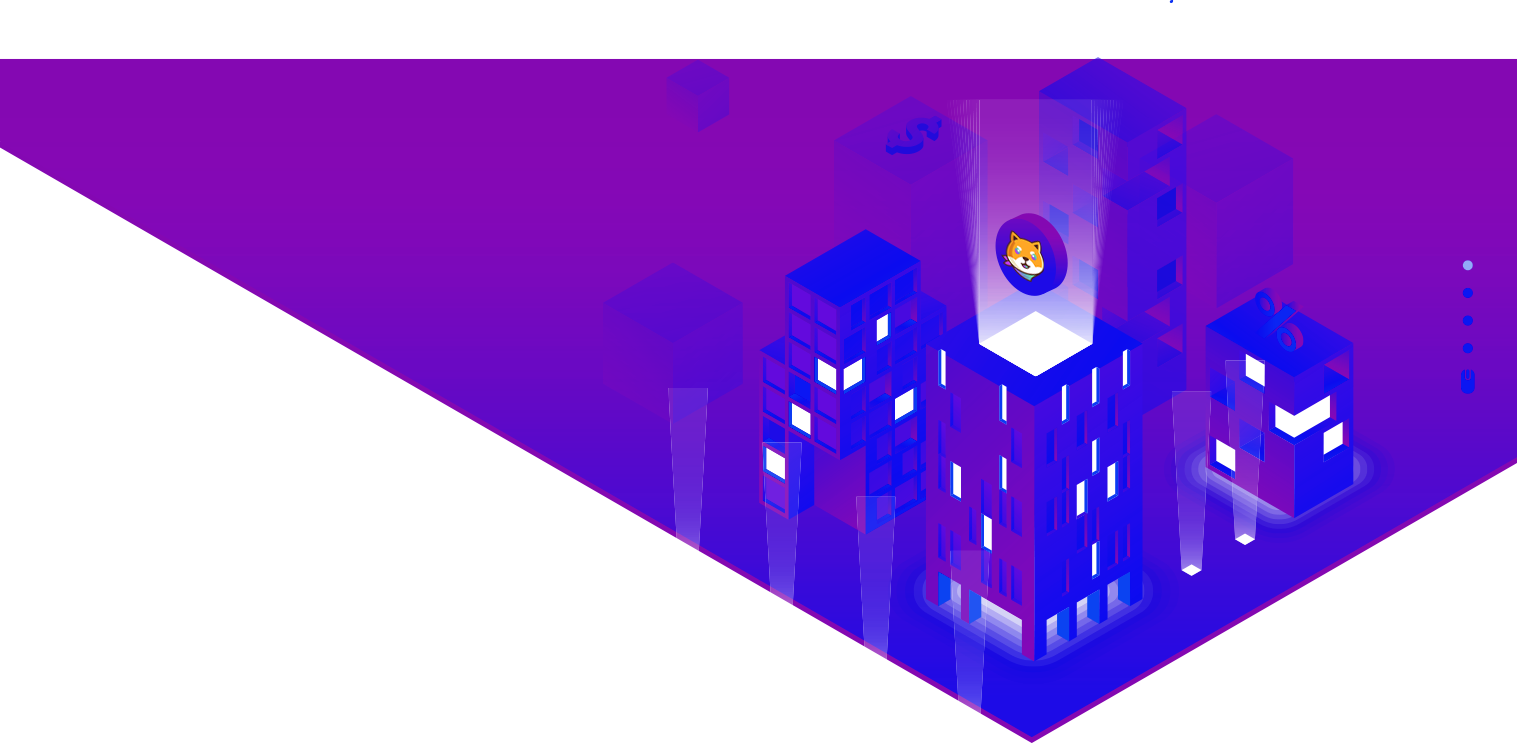
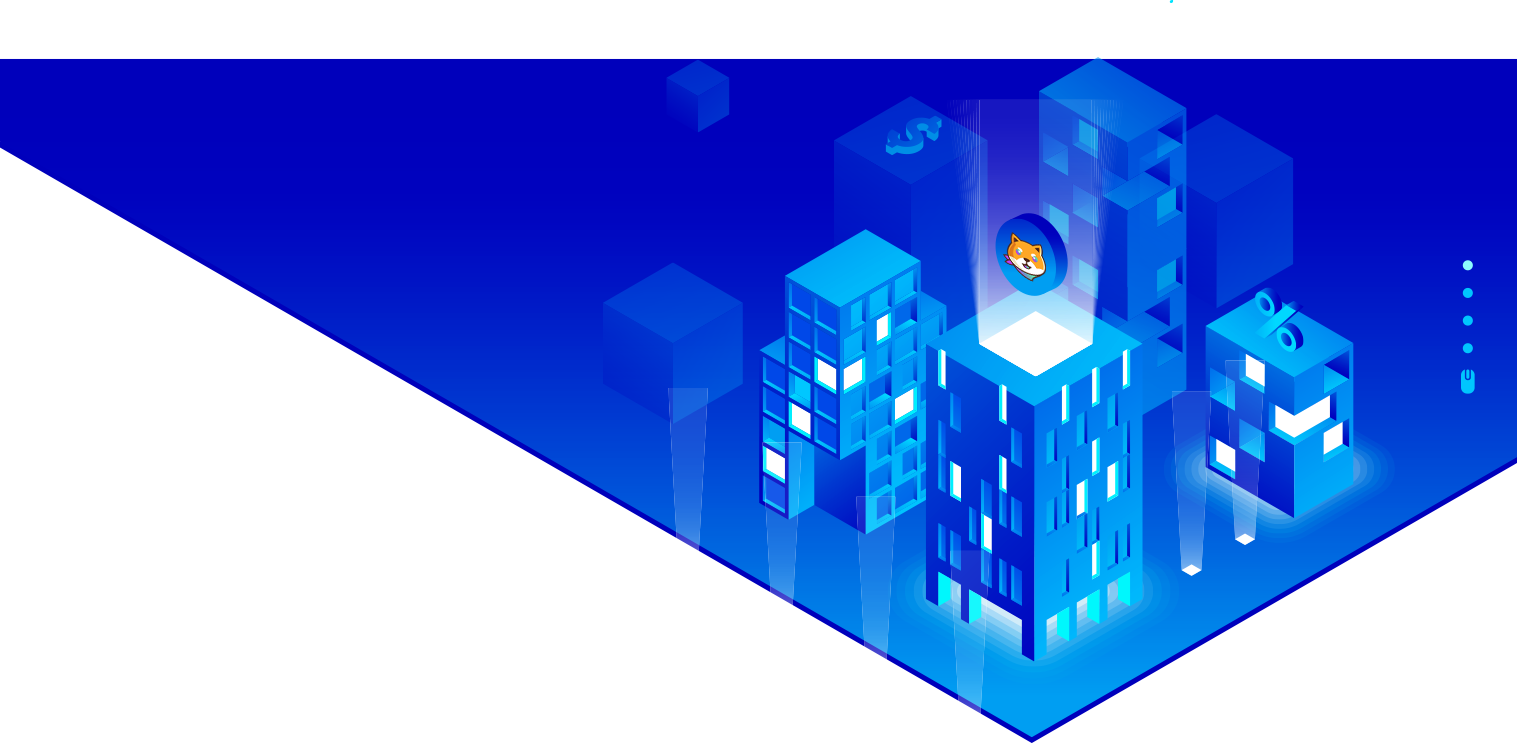
fixed

diff --git a/css/style.css b/css/style.css
@@ -848,7 +848,7 @@ body .theme-button:hover span {opacity: 1;}
   position: absolute;
   z-index: 1;
 }
-.apps-overview.color-two {background: #8b29cc;margin-bottom: 0;}
+.apps-overview.color-two {background: #111ba8;margin-bottom: 0;}
 .apps-overview.color-two .inner-wrapper .button-group li a:hover {background: #00c9d7;color: #fff;}
 .apps-overview.color-three {background: #610bcf; padding: 160px 0 250px;margin-bottom: 50px;}
 .apps-overview.color-three .shape {
@@ -1175,7 +1175,7 @@ body .theme-button:hover span {opacity: 1;}
   color: #fff;
   margin-left: 5px;
 }
-.theme-footer.dark-style {background: #8b29cc;}
+.theme-footer.dark-style {background: #191eae;}
 .theme-footer.dark-style .top-footer-data-wrapper {
   border-top:1px solid rgba(241,241,241,0.08);
   border-bottom:1px solid rgba(241,241,241,0.08);
@@ -1332,7 +1332,7 @@ body .theme-button:hover span {opacity: 1;}
 }
 /*-------------------- Token Sale -----------------*/
 .token-sale-section.dark-bg {
-  background: #8b29cc;
+  background: #1217a4;
   position: relative;
   z-index: 1;
 }
@@ -1485,7 +1485,7 @@ body .theme-button:hover span {opacity: 1;}
   font-weight: normal;
 }
 .our-road-map .time-line-wrapper #timeline-frame .roadmap__events__event .event {
-  border: 1px solid #4312bb;
+  border: 1px solid #282fea;
   border-radius: 3px;
   width: 100%;
   height: 100%;
@@ -1495,9 +1495,9 @@ body .theme-button:hover span {opacity: 1;}
   content: '';
   width: 10px;
   height: 10px;
-  border-left: 1px solid #4312bb;
-  border-bottom: 1px solid #4312bb;
-  background: #3506ad;
+  border-left: 1px solid #282fea;
+  border-bottom: 1px solid #282fea;
+  background: #1217a4;
   position: absolute;
   left: 50%;
   margin-left: -5px; 
@@ -1523,13 +1523,13 @@ body .theme-button:hover span {opacity: 1;}
 }
 .our-road-map .roadmap.roadmap--orientation-auto .roadmap__events:after {
   height: 2px;
-  background: #4312bb;
+  background: #282ed7;
 }
 .our-road-map .roadmap.roadmap--orientation-auto .roadmap__events__event:before {
   width: 11px;
   height: 11px;
-  border: 2px solid #4312bb;
-  background: #3506ad;
+  border: 2px solid #363bda;
+  background: #0c12ac;
   z-index: 1;
 }
 .our-road-map .roadmap.roadmap--orientation-auto .roadmap__events__event:nth-child(odd):before {top:32px;}

diff --git a/index.html b/index.html
@@ -198,32 +198,27 @@
 								<div class="col-md-12">
 									<div class="text" style="margin-top: 100px;">
 										<h3>faq</h3>
-										<h2 class="mt-4">How do I buy INU</h2>
-										<h6>Trade INU : <a target="_blank" href="https://dex.aldrin.com/chart/spot/INU_USDC">https://dex.aldrin.com/chart/spot/INU_USDC</a></h6>
-
-										<h6>INU/USDC : <a target="_blank" href="https://trade.dexlab.space/#/market/G3Bss3a2tif6eHNzWCh14g5k2H4rwBAmE42tbckUWG5T">https://trade.dexlab.space/#/market/G3Bss3a2tif6eHNzWCh14g5k2H4rwBAmE42tbckUWG5T</a></h6>
-
-										<h6>INU/SOL: <a target="_blank" href="https://trade.dexlab.space/#/market/C4xEwT4zWA6i7QCAkbhmcmQxwMnk4Y3HHDftGVcsndVS">https://trade.dexlab.space/#/market/C4xEwT4zWA6i7QCAkbhmcmQxwMnk4Y3HHDftGVcsndVS</a></h6>
-
+										<h2 class="mt-4">What is the totally supply?</h2>
+										<h6>1 Billion INU</h6>
 									</div> <!-- /.text -->
 
 									<div class="text mt-4">
-										<h2>What is the total supply and initial listing price?</h2>
-										<h6>1 Billion INU at the lowest price on Serum DEX at 0.000001 USDC</h6>
-									</div> <!-- /.text -->
-
-									<div class="text mt-4">
-										<h2>How were the 1 Billion INU distributed?</h2>
+										<h2>How were the initial INU distributed on the market?</h2>
 										<h6>Tokens were made available to everyone using a fair-launch model via a direct listing on Serum DEX. Everyone was given an equal opportunity to buy INU tokens from day one.</h6>
 									</div> <!-- /.text -->
 
 									<div class="text mt-4">
-										<h2>Token address?</h2>
+										<h2>Why did I receive free INU tokens in my wallet?</h2>
+										<h6>We have been continuously airdropping our tokens to other communities within the Solana ecosystem.</h6>
+									</div> <!-- /.text -->
+
+									<div class="text mt-4">
+										<h2>Token mint address?</h2>
 										<h6>5jFnsfx36DyGk8uVGrbXnVUMTsBkPXGpx6e69BiGFzko</h6>
 									</div> <!-- /.text -->
 
 									<div class="text mt-4" style="margin-bottom: 100px;">
-										<h2>Market ID?</h2>
+										<h2>Serum Market ID?</h2>
 										<h6>G3Bss3a2tif6eHNzWCh14g5k2H4rwBAmE42tbckUWG5T</h6>
 									</div> <!-- /.text -->
 

diff --git a/js/theme.js b/js/theme.js
@@ -211,19 +211,19 @@
             var events = [
             {
               date: 'Phase 1',
-              content: '<p>Fair Launch of Token Listings of <span style="color:white;">Multiple Dex\'s</span><br>Begin Strategic Airdrops <br>Create <span style="color:white;">INU/USDC</span> Liquidity Pool</p>'
+              content: '<p>Fair Launch of Solana INU<br>Listings on Multiple DEX Platforms<br>Begin Strategic Airdrops</p>'
             },
             {
               date: 'Phase 2',
-              content: '<p><span style="color:white;">Sending Sacrificial Burn</span> to The Solana Gods (Sam Bankman-Fried, Anatoly Yakovenko) Begin <span style="color:white;">Infulencer Marketing</span> Listings on CMC&Coin Gecko</p>'
+              content: '<p>Create INU/USDC Liquidity Pool<br>Send 69 Million Solana INU To Burn<br>List on CMC and Coin Gecko</p>'
             },
             {
               date: 'Phase 3',
-              content: '<p>Intergrate Uield Farming<br>Creation of <span style="color:white;">INU Dex</span><br>Create Faucet/Staking app</p>'
+              content: '<p>Integrate Yield Farming<br>Begin Influencer Marketing<br>Creation of INU DEX</p>'
             },
             {
               date: 'Phase 4',
-              content: '<p>Increase Dex Listings<br>CEX <span style="color:white;">Exchange Listings</span><br>Start Charitable Donations</p>'
+              content: '<p>Increase DEX and CEX Listings<br>Start Charitable Donations<br>Create Faucet</p>'
             },
             {
               date: 'Phase 5',

diff --git a/css/color-two.css b/css/color-two.css
@@ -1,5 +1,5 @@
-.theme-top-section,.our-feature-two.dark-bg {background: #8b29cc;}
-.scroll-top,.theme-main-menu #mega-menu-holder .navbar-toggler {color: #8b29cc; }
+.theme-top-section,.our-feature-two.dark-bg {background: #191eae;}
+.scroll-top,.theme-main-menu #mega-menu-holder .navbar-toggler {color: #191eae; }
 #mega-menu-holder ul> li> a:before,.theme-banner-two .main-text-wrapper .button-group li a:hover,.contact-section-dark form button {
 	background: #efd421;
 }
@@ -11,9 +11,9 @@
 	border-color: #efd421;
 }
 
-#polyglotLanguageSwitcher ul.dropdown {box-shadow: 0px 0px 22.5px 7.5px #8b29cc;}
+#polyglotLanguageSwitcher ul.dropdown {box-shadow: 0px 0px 22.5px 7.5px rgb(36, 41, 179);}
 .theme-main-menu.color-white .right-widget .login-button a:hover {background: linear-gradient( 83deg, rgb(18,204,141) 0%, rgb(0,172,187) 100%);border-color: transparent;}
 .scroll-top {background: #fff;}
 .theme-title h2 {color: #fff;}
 ::-webkit-scrollbar-thumb { background: #efd421;}
-.theme-main-menu.fixed {background: #8b29cc;}
+.theme-main-menu.fixed {background: #11209f;}
